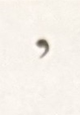
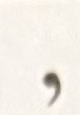
img updated and version-2 for longer texts

Changed region(s): [[0.525, 0.6, 0.775, 0.9391], [0.425, 0.313, 0.625, 0.5217]]

diff --git a/328_Text_to_Handwriting/v2.py b/328_Text_to_Handwriting/v2.py
@@ -1,0 +1,71 @@
+from PIL import Image
+import os
+import sys
+
+def open_text_file(file_path):
+    try:
+        txt = open(file_path, "r")
+    except FileNotFoundError:
+        print("Could not find file, using default file...")
+        txt = open("dummy.txt", "r")
+    return txt
+
+def create_output_directory(directory):
+    os.makedirs(directory, exist_ok=True)
+
+def create_initial_background():
+    return Image.open("op/bg.png").copy()
+
+def paste_word_on_page(word, bg, gap, ht, space_image):
+    for i in word:
+        cases = Image.open("op/{}.png".format(str(ord(i))))
+        bg.paste(cases, (gap, ht))
+        size = cases.width
+        gap += size
+
+    bg.paste(space_image, (gap, ht))
+    gap += space_image.width
+    return gap
+
+def save_page(bg, output_dir, page_number):
+    bg.save(os.path.join(output_dir, f"page_{page_number}.png"))
+
+def main():
+    # path of text file
+    try:
+        file_path = sys.argv[1]
+    except IndexError:
+        print("No file entered, using default file...")
+        file_path = "dummy.txt"
+
+    txt = open_text_file(file_path)
+
+    # Output directory for pages
+    output_dir = "output_pages"
+    create_output_directory(output_dir)
+
+    space_image = Image.open("op/space.png")
+
+    gap, ht = 0, 0
+    page_number = 0
+    bg = create_initial_background()
+    sheet_width, sheet_height = bg.width, bg.height
+
+    for word in txt.read().replace("\n", "").split():
+        word_width = sum(Image.open("op/{}.png".format(ord(c))).width for c in word)
+
+        if sheet_width < gap + word_width or len(word) > (sheet_width - gap):
+            gap, ht = 0, ht + 110  # Start a new line
+
+        if ht + 110 > sheet_height:
+            gap, ht = 0, 0
+            page_number += 1
+            save_page(bg, output_dir, page_number)
+            bg = create_initial_background()
+
+        gap = paste_word_on_page(word, bg, gap, ht, space_image)
+    page_number+=1
+    save_page(bg, output_dir, page_number)
+
+if __name__ == "__main__":
+    main()
